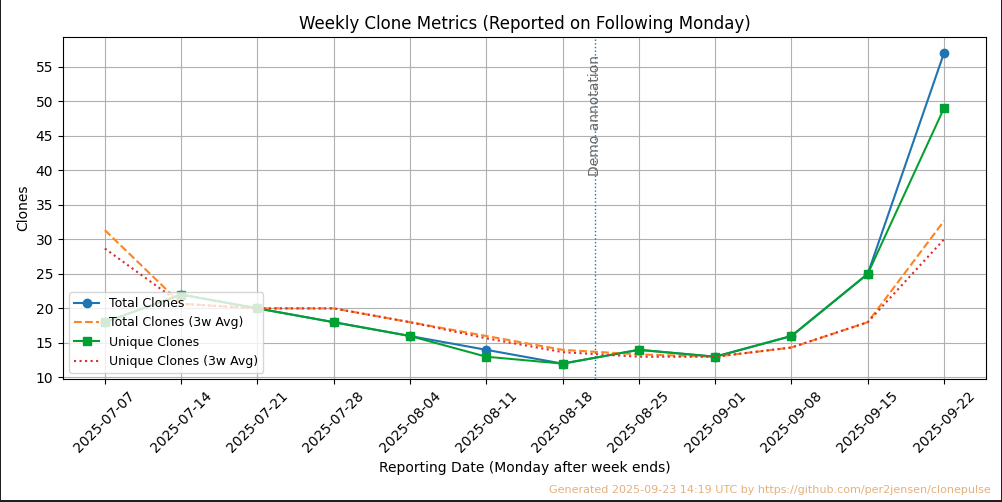
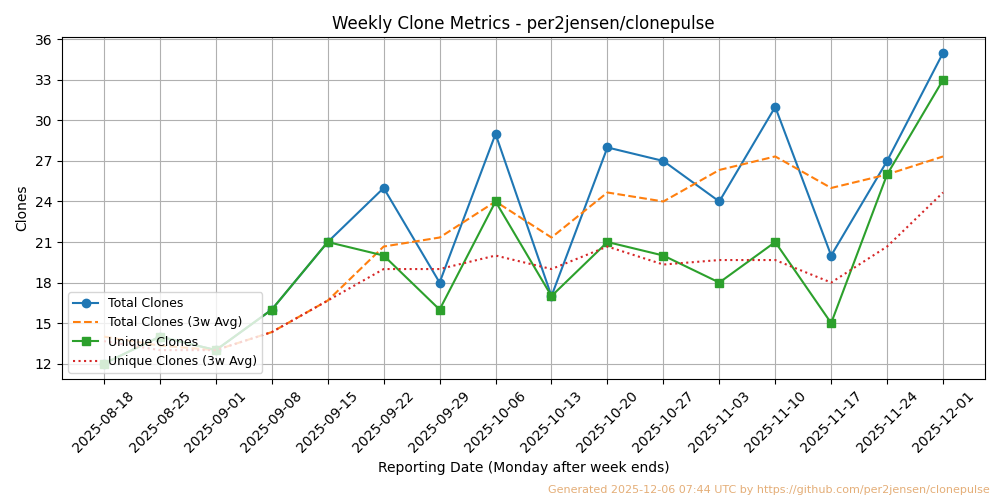
Updated example dashboards (--user & --repo)

diff --git a/README.md b/README.md
@@ -26,15 +26,17 @@ A weekly clone activity chart is automatically updated and saved in `clonepulse/
 - Discards partial weeks
 - Shows only complete Monday–Sunday periods
 
-![Standard clone dashboard, last 12 weeks](example/default.png)
+![Standard clone dashboard, last 16 weeks](example/default.png)
+<sub>Command: `python src/clonepulse/generate_clone_dashboard.py --user per2jensen --repo clonepulse`</sub>
+
 
 ### Reproducible window (`--start` + `--weeks`)
 ![Dashboard starting 2025-08-15 for 6 weeks](example/start-example.png)  
-<sub>Command: `python src/clonepulse/generate_clone_dashboard.py --start 2025-08-15 --weeks 6`</sub>
+<sub>Command: `python src/clonepulse/generate_clone_dashboard.py --start 2025-09-01 --weeks 8  --user per2jensen --repo clonepulse`</sub>
 
 ### Calendar year (`--year`)
 ![Dashboard for calendar year 2025 (to date)](example/year-example.png)  
-<sub>Command: `python src/clonepulse/generate_clone_dashboard.py --year 2025`</sub>
+<sub>Command: `python src/clonepulse/generate_clone_dashboard.py --year 2025 --user per2jensen --repo clonepulse`</sub>
 
 ---
 
